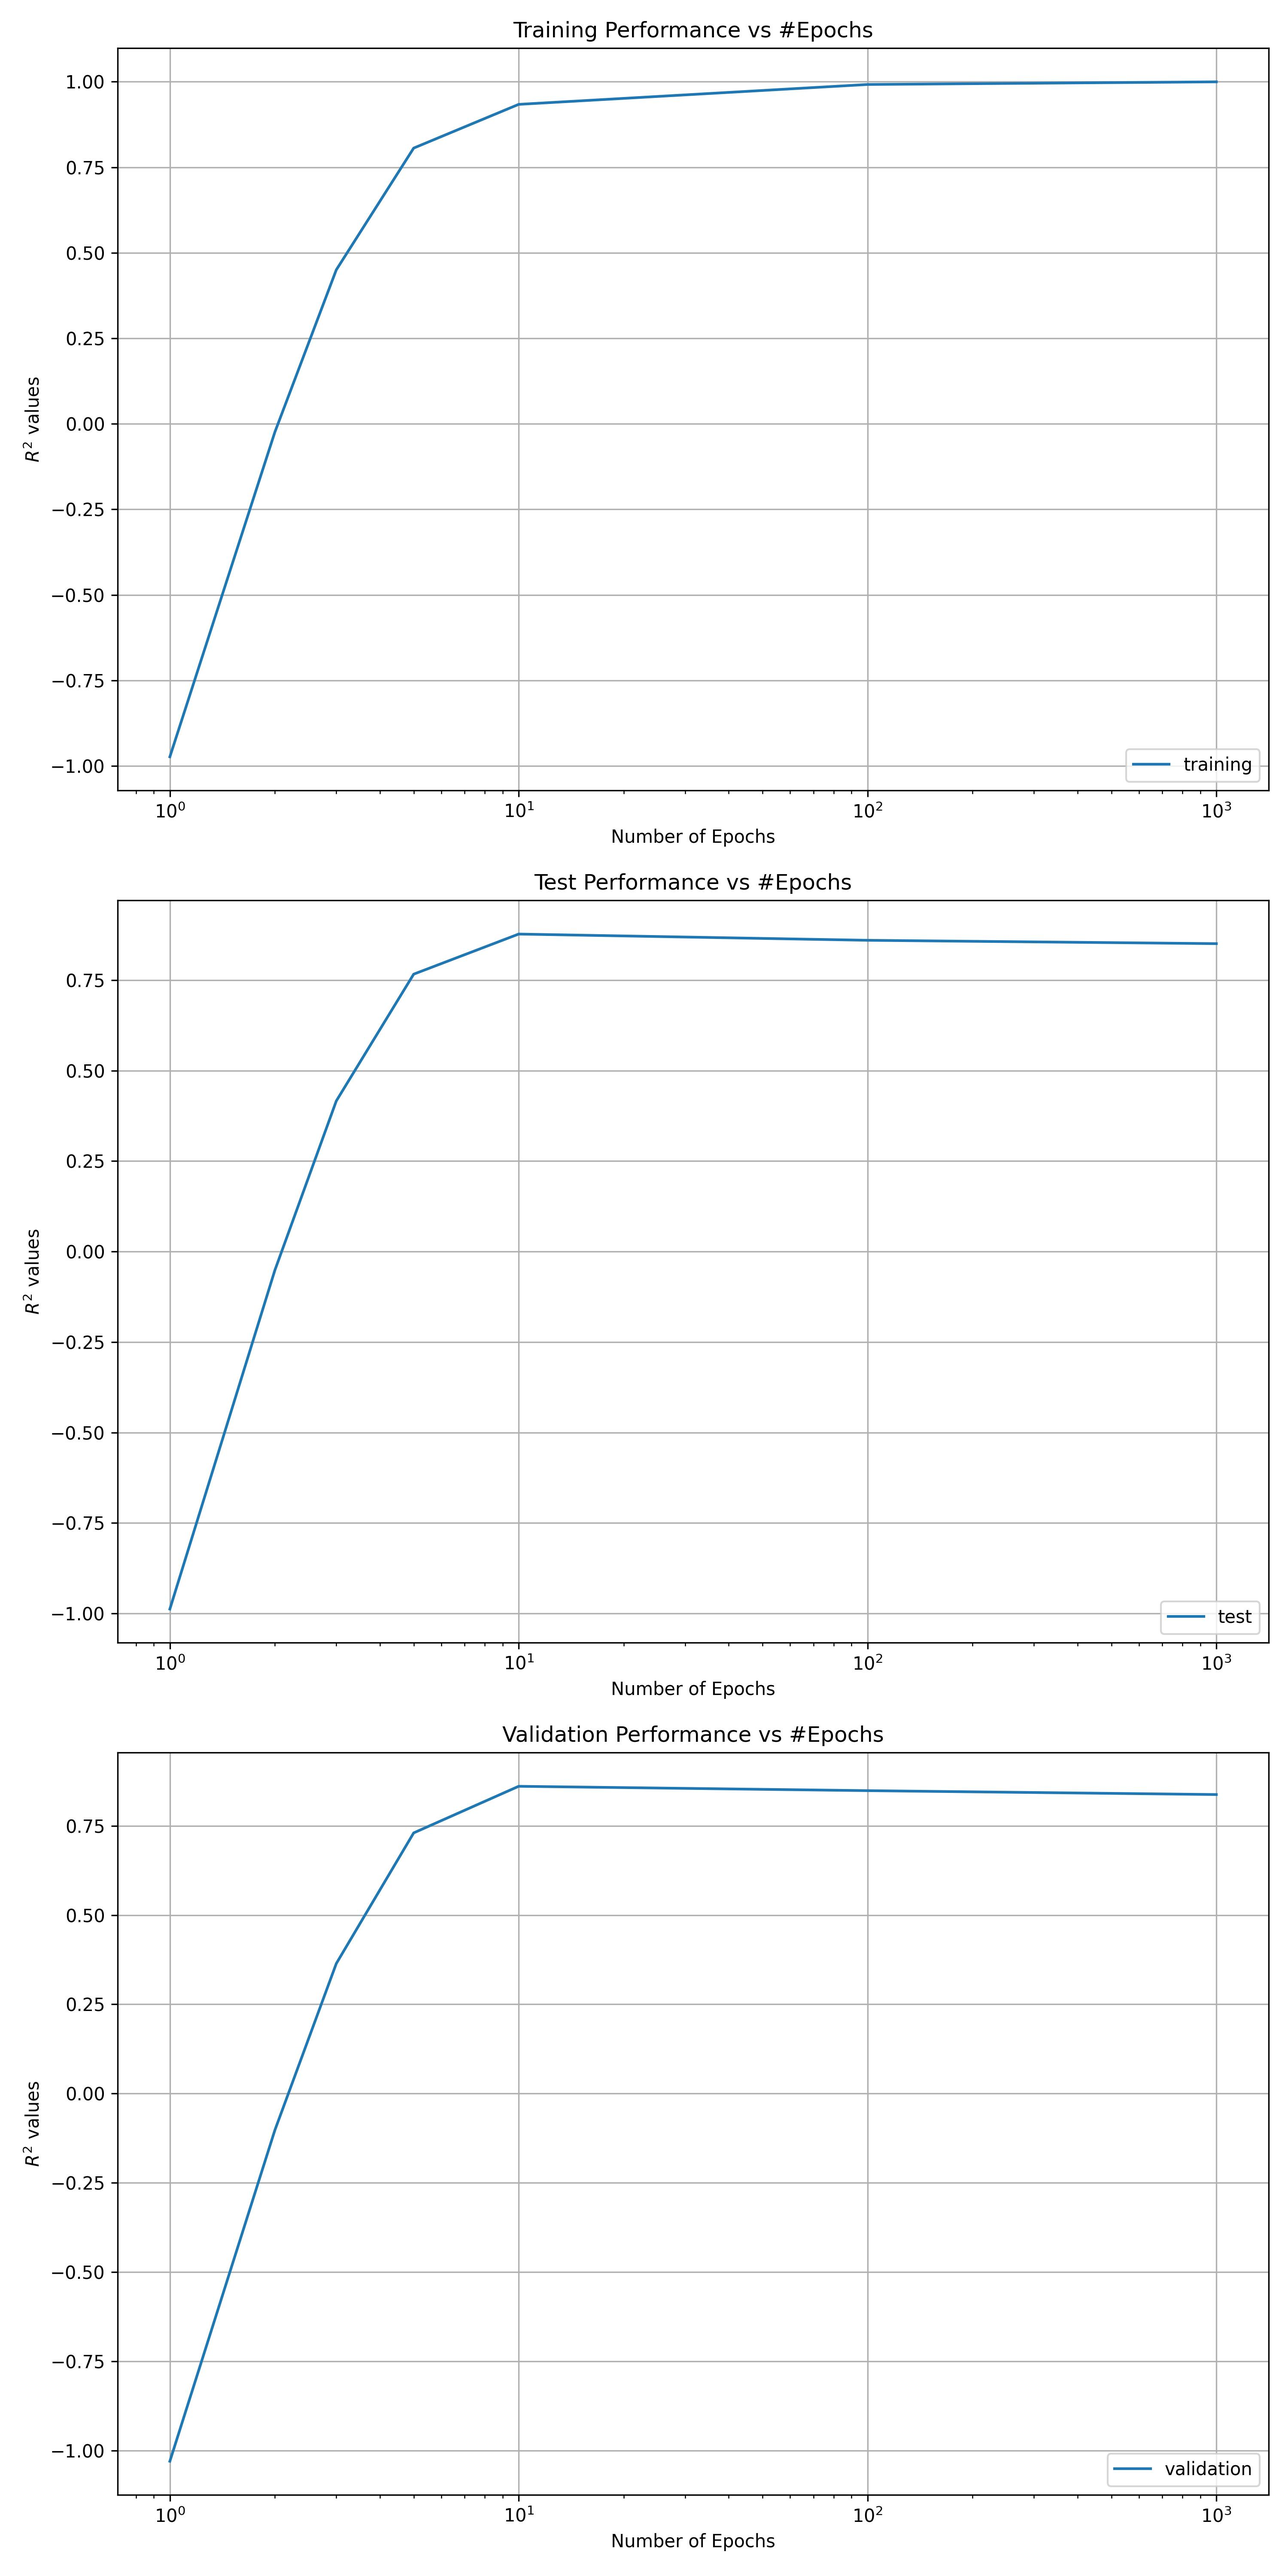
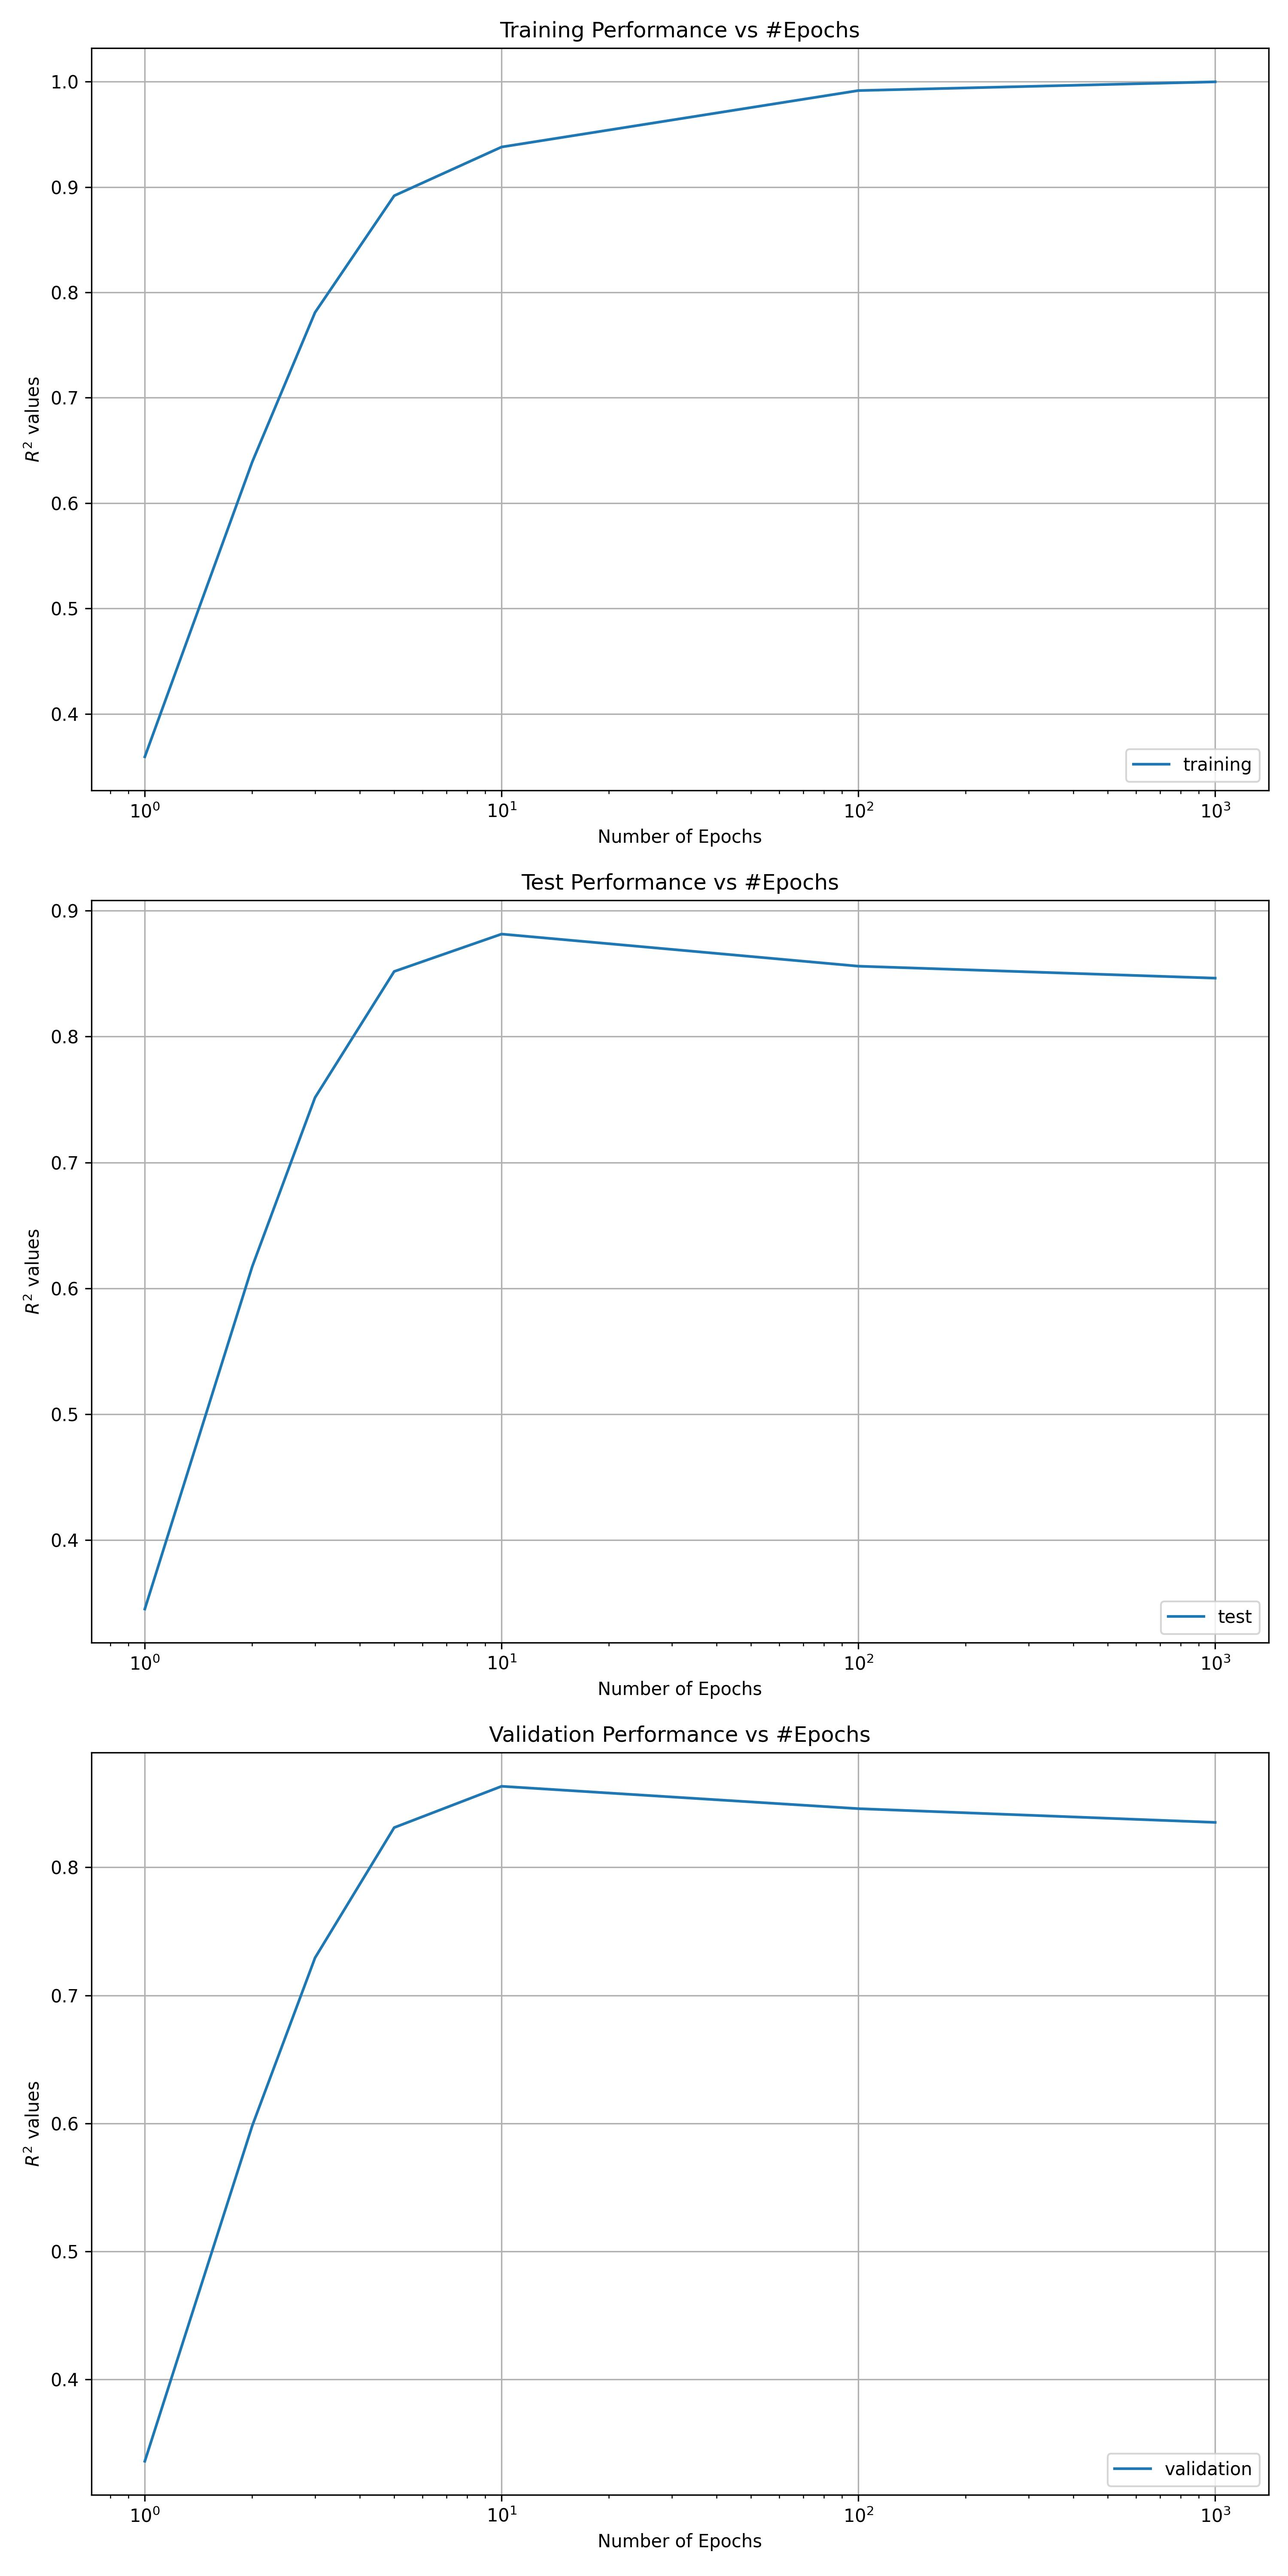
classification finished

diff --git a/classification.py b/classification.py
@@ -20,7 +20,6 @@ NUMBER_OF_EPOCHS= [1,2,3,5,10,100,1000]
 
 TESTS_RUN=['training','test','validation']
 
-WINDOW_SIZE = 1
 TARGET_COLUMN = 'fs_category'
 TRAINING_PATH = './data/training/'
 TEST_PATH = './data/test/'
@@ -44,7 +43,7 @@ inputs, outputs = classification_util.make_io(data)
 param = {
     'max_depth' : 5,
     'booster' : 'gbtree',
-    'base_score' : 0.15,
+    'base_score' : 0.5,
     'eval_metric': 'mae'
 }
 
@@ -58,7 +57,10 @@ features_importance_df=pd.DataFrame(features_importance_arr, columns=features, i
 results_arr=np.zeros((len(TESTS_RUN),len(NUMBER_OF_EPOCHS)))
 results_df=pd.DataFrame(results_arr, columns=NUMBER_OF_EPOCHS, index=TESTS_RUN)
 
-
+fc_columns=['greater','exact','smaller']
+false_classify_arr=np.zeros((len(TESTS_RUN),3))
+false_classify_df=pd.DataFrame(false_classify_arr, columns=fc_columns, index=TESTS_RUN)
+#print('false_classify_df\n',false_classify_df)
 
 
 
@@ -90,23 +92,38 @@ def main(num_epochs):
 	    	predicted += pred
 	    	
 	    r2_temp=classification_util.print_metrics(real, predicted)
-	    
-	    return r2_temp,feature_importance
+	    #print('real\n',real)
+	    #print('predicted\n',predicted)
+	    #print(len(predicted))
+	    #print(len(real))
+	    temp_multi=4*np.ones(len(predicted))
+	    #print('temp_multi',temp_multi)
+	    temp_predicted=temp_multi*predicted
+	    #print('temp_predicted\n',temp_predicted)
+	    temp_predicted=np.round(temp_predicted)
+	    #print('temp_predicted\n',temp_predicted)
+	    temp_predicted=temp_predicted/temp_multi
+	    #sprint('temp_predicted\n',temp_predicted)
+	    #print('real',real)
+	    g,e,s=classification_util.check_false_classifiy(real,temp_predicted)
+	    #if(i==10):
+	    #	classification_util.plot_false_classifiy(g,e,s)
+	    return r2_temp,feature_importance,g,e,s
 	
 
 	print('\nTRAINING\n')
-	r2_training, fi_training=print_performance(training_files)
+	r2_training, fi_training,g_training,e_training,s_training=print_performance(training_files)
 	r2_training=round(r2_training,5)
 	results_df[i]['training']=r2_training
 	
 	
 	print('\nTEST\n')
-	r2_test,fi_test=print_performance(test_files)
+	r2_test,fi_test,g_test,e_test,s_test=print_performance(test_files)
 	r2_test=round(r2_test,5)
 	results_df[i]['test']=r2_test
 
 	print('\nVALIDATION\n')
-	r2_validation,fi_validation=print_performance(validation_files)
+	r2_validation,fi_validation,g_validation,e_validation,s_validation=print_performance(validation_files)
 	r2_validation=round(r2_validation,5)
 	results_df[i]['validation']=r2_validation
 
@@ -115,6 +132,13 @@ def main(num_epochs):
 		features_importance_df.loc['training']=fi_training
 		features_importance_df.loc['test']=fi_test
 		features_importance_df.loc['validation']=fi_validation
+		
+		false_classify_df.loc['training']=[g_training,e_training,s_training]
+		false_classify_df.loc['test']=[g_test,e_test,s_test]
+		false_classify_df.loc['validation']=[g_validation,e_validation,s_validation]
+		#print('false_classify_df\n',false_classify_df)
+		classification_util.plot_false_classifiy(false_classify_df)
+		
 		
 		
 
@@ -135,6 +159,7 @@ classification_util.plot_results_epochs(results_df)
 
 #print('features_importance_df\n',features_importance_df.fillna(0))
 classification_util.plot_features(features_importance_df.fillna(0))
+
 
 
 

diff --git a/classification_util.py b/classification_util.py
@@ -5,6 +5,62 @@ from pandas import concat
 import matplotlib.pyplot as plt
 import os
 
+def check_false_classifiy(real,pred):
+	real_arr=np.array(real)
+	pred_arr=np.array(pred)
+	#print('bigger',np.sum(pred_arr>real_arr))
+	#print('exact',np.sum(pred_arr==real_arr))
+	#print('smaller',np.sum(pred_arr<real_arr))
+	temp=np.zeros(len(real))
+	
+	for i in range(len(real)):
+		if(pred_arr[i]>real_arr[i]):
+			temp[i]=3
+		if(pred_arr[i]==real_arr[i]):
+			temp[i]=2
+		if(pred_arr[i]<real_arr[i]):
+			temp[i]=1	
+				
+	
+	#print('temp',temp)
+	#print('temp',type(temp))
+	#print('length',temp.size)
+	greater=(temp==3).sum()
+	exact=(temp==2).sum()
+	smaller=(temp==1).sum()
+	#print('Greater',greater)
+	#print('exact',exact)
+	#print('smaller',smaller)
+	#print('Fail',(temp==0).sum())
+	#print('Total',temp.size)
+	return greater,exact,smaller
+	
+	
+def plot_false_classifiy(fc_df):
+	
+	labels='Greater','Exact', 'Smaller'
+	colors=['gray','cyan','rosybrown']
+	
+	
+	fig, (ax1, ax2, ax3) = plt.subplots(3, 1,figsize=(10, 20))
+	for i in range(fc_df.shape[0]):
+		if(fc_df.index[i].startswith('training')):
+			ax1.pie(fc_df.values[i],labels=labels,colors=colors, autopct='%1.1f%%')
+		if(fc_df.index[i].startswith('test')):
+			ax2.pie(fc_df.values[i],labels=labels,colors=colors, autopct='%1.1f%%')
+		if(fc_df.index[i].startswith('validation')):
+			ax3.pie(fc_df.values[i],labels=labels,colors=colors, autopct='%1.1f%%')
+	
+	ax1.set_title('Training classify')
+	ax2.set_title('Test classify')
+	ax3.set_title('Validation classify')
+	#plt.show()
+	plt.tight_layout()
+	
+	plt.savefig('plots/classification_false_classify.jpeg', format='jpeg' ,dpi=300)
+	
+		
+
 def plot_features(features_importance_df):
 	
 	plt.figure()
@@ -13,7 +69,7 @@ def plot_features(features_importance_df):
 	plt.ylabel('feature importance')
 
 	plt.savefig('plots/classifiction_feature_importance.jpeg', format='jpeg' ,dpi=300)
-	plt.show()
+	#plt.show()
 	
 
 
